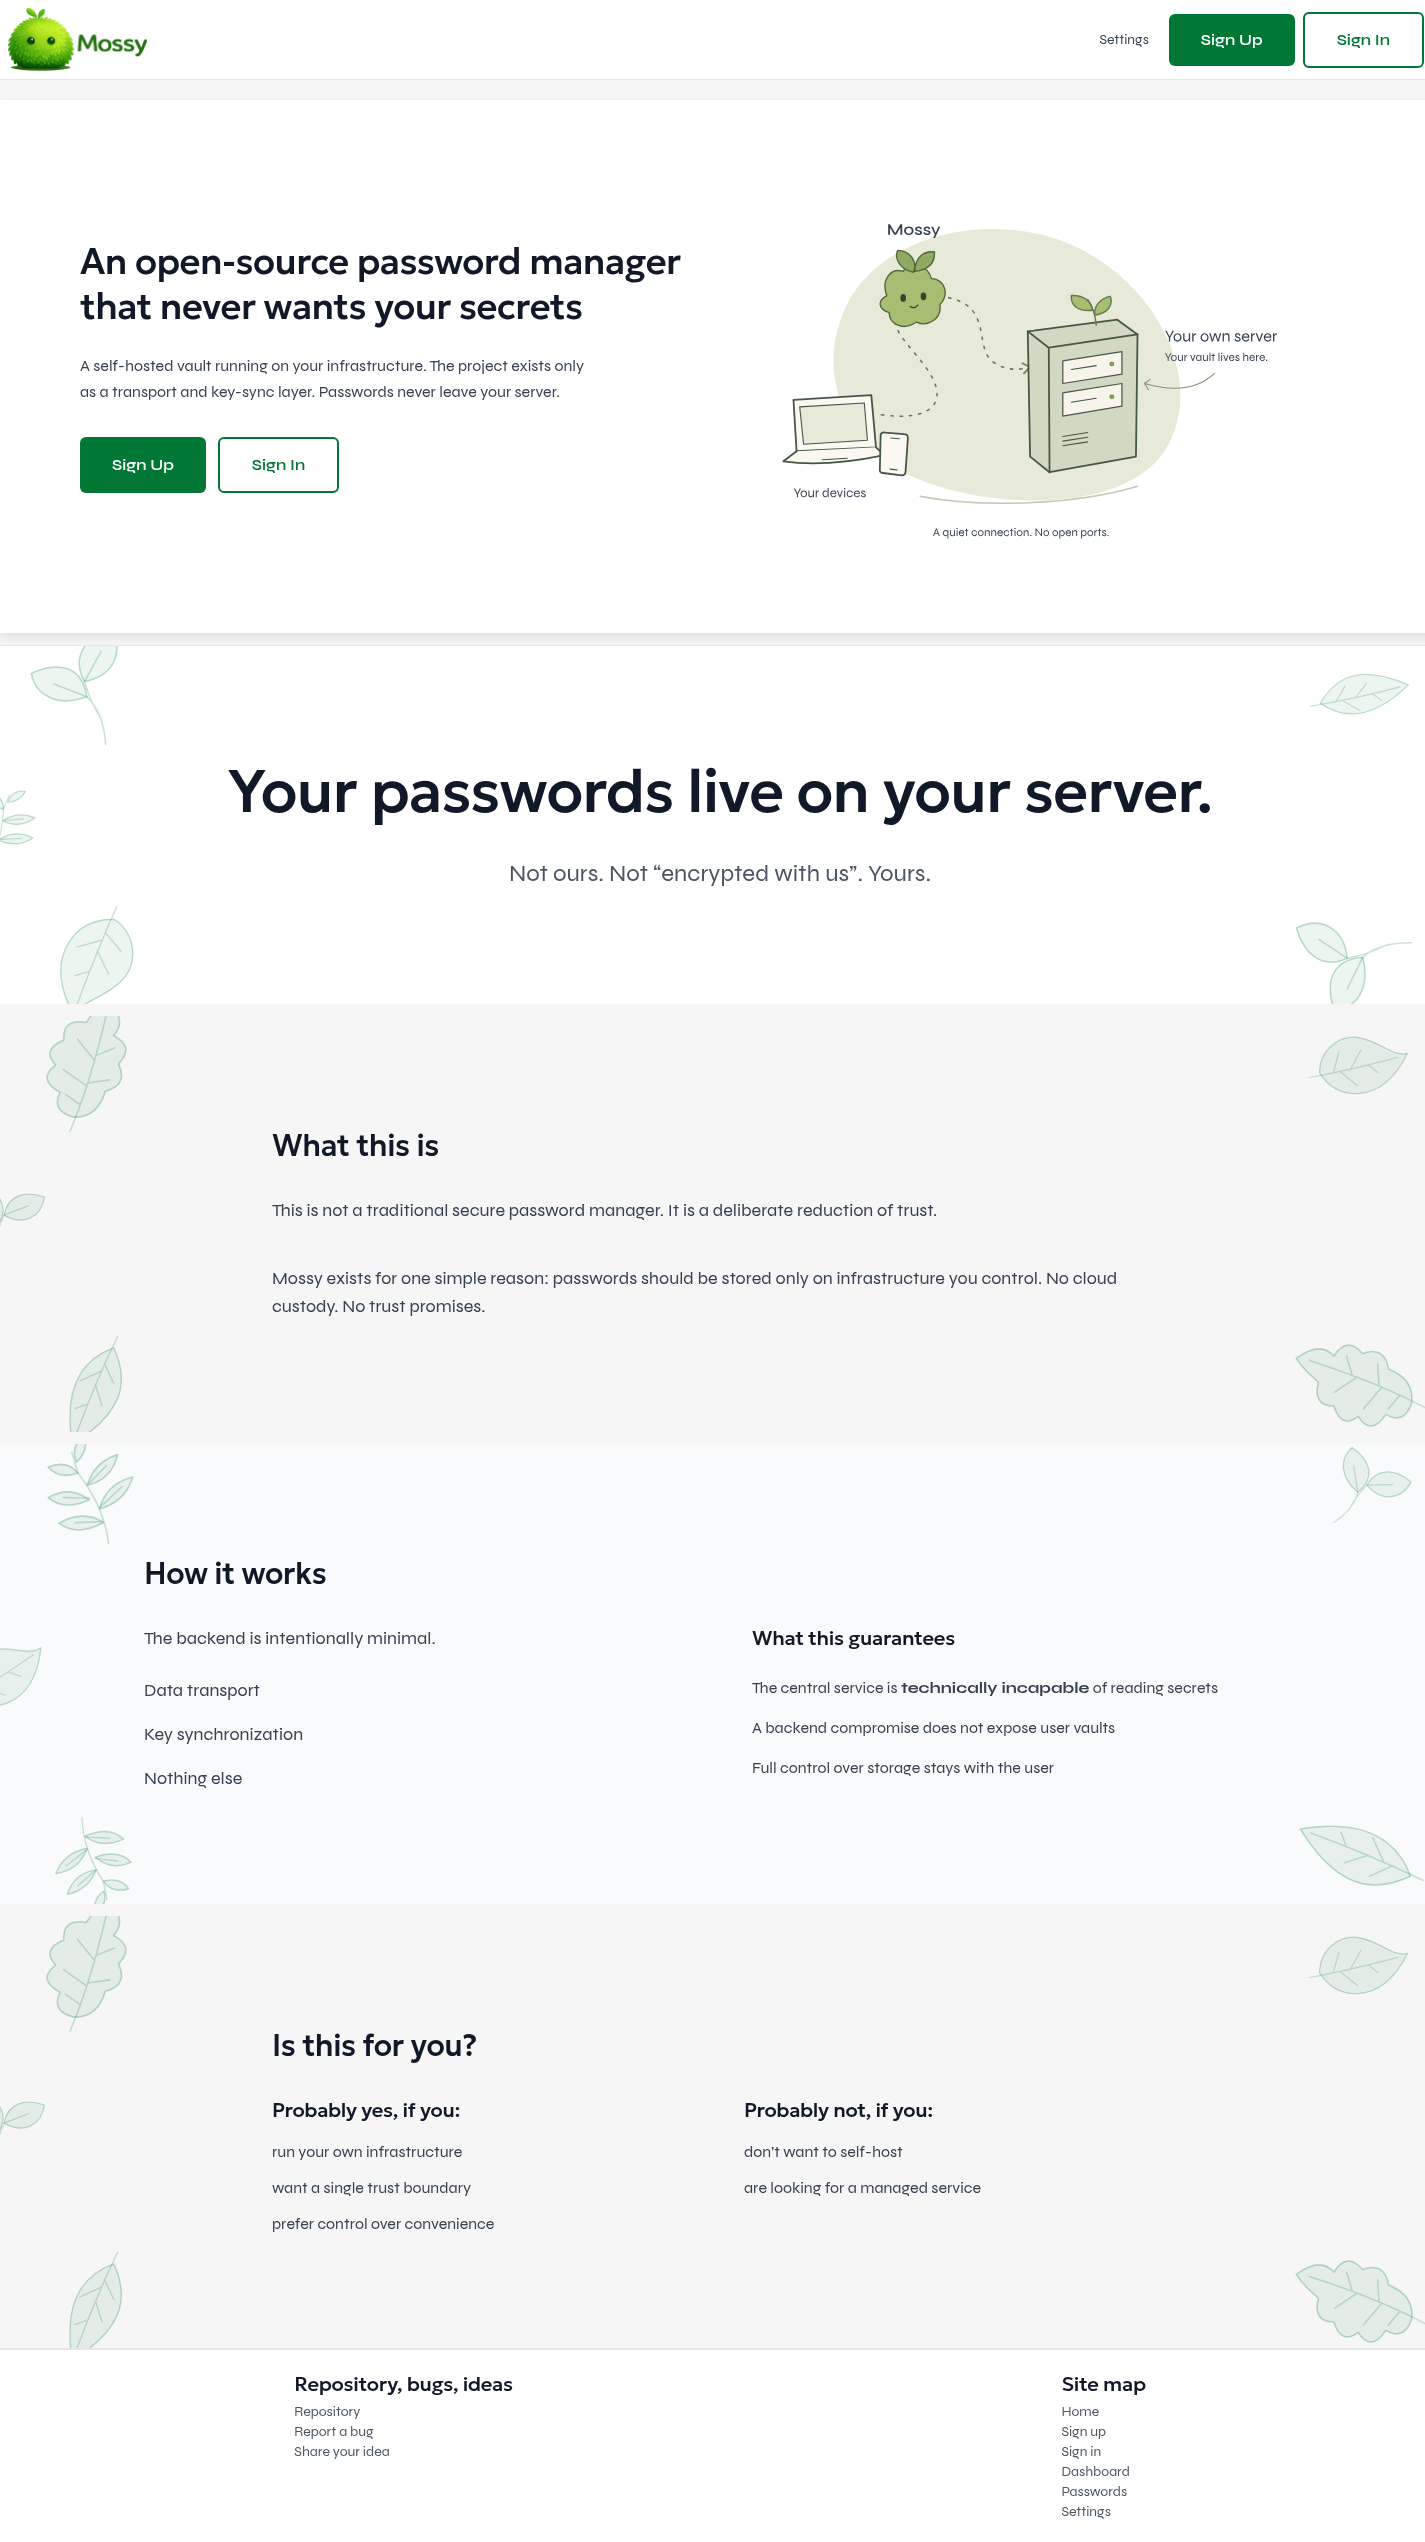
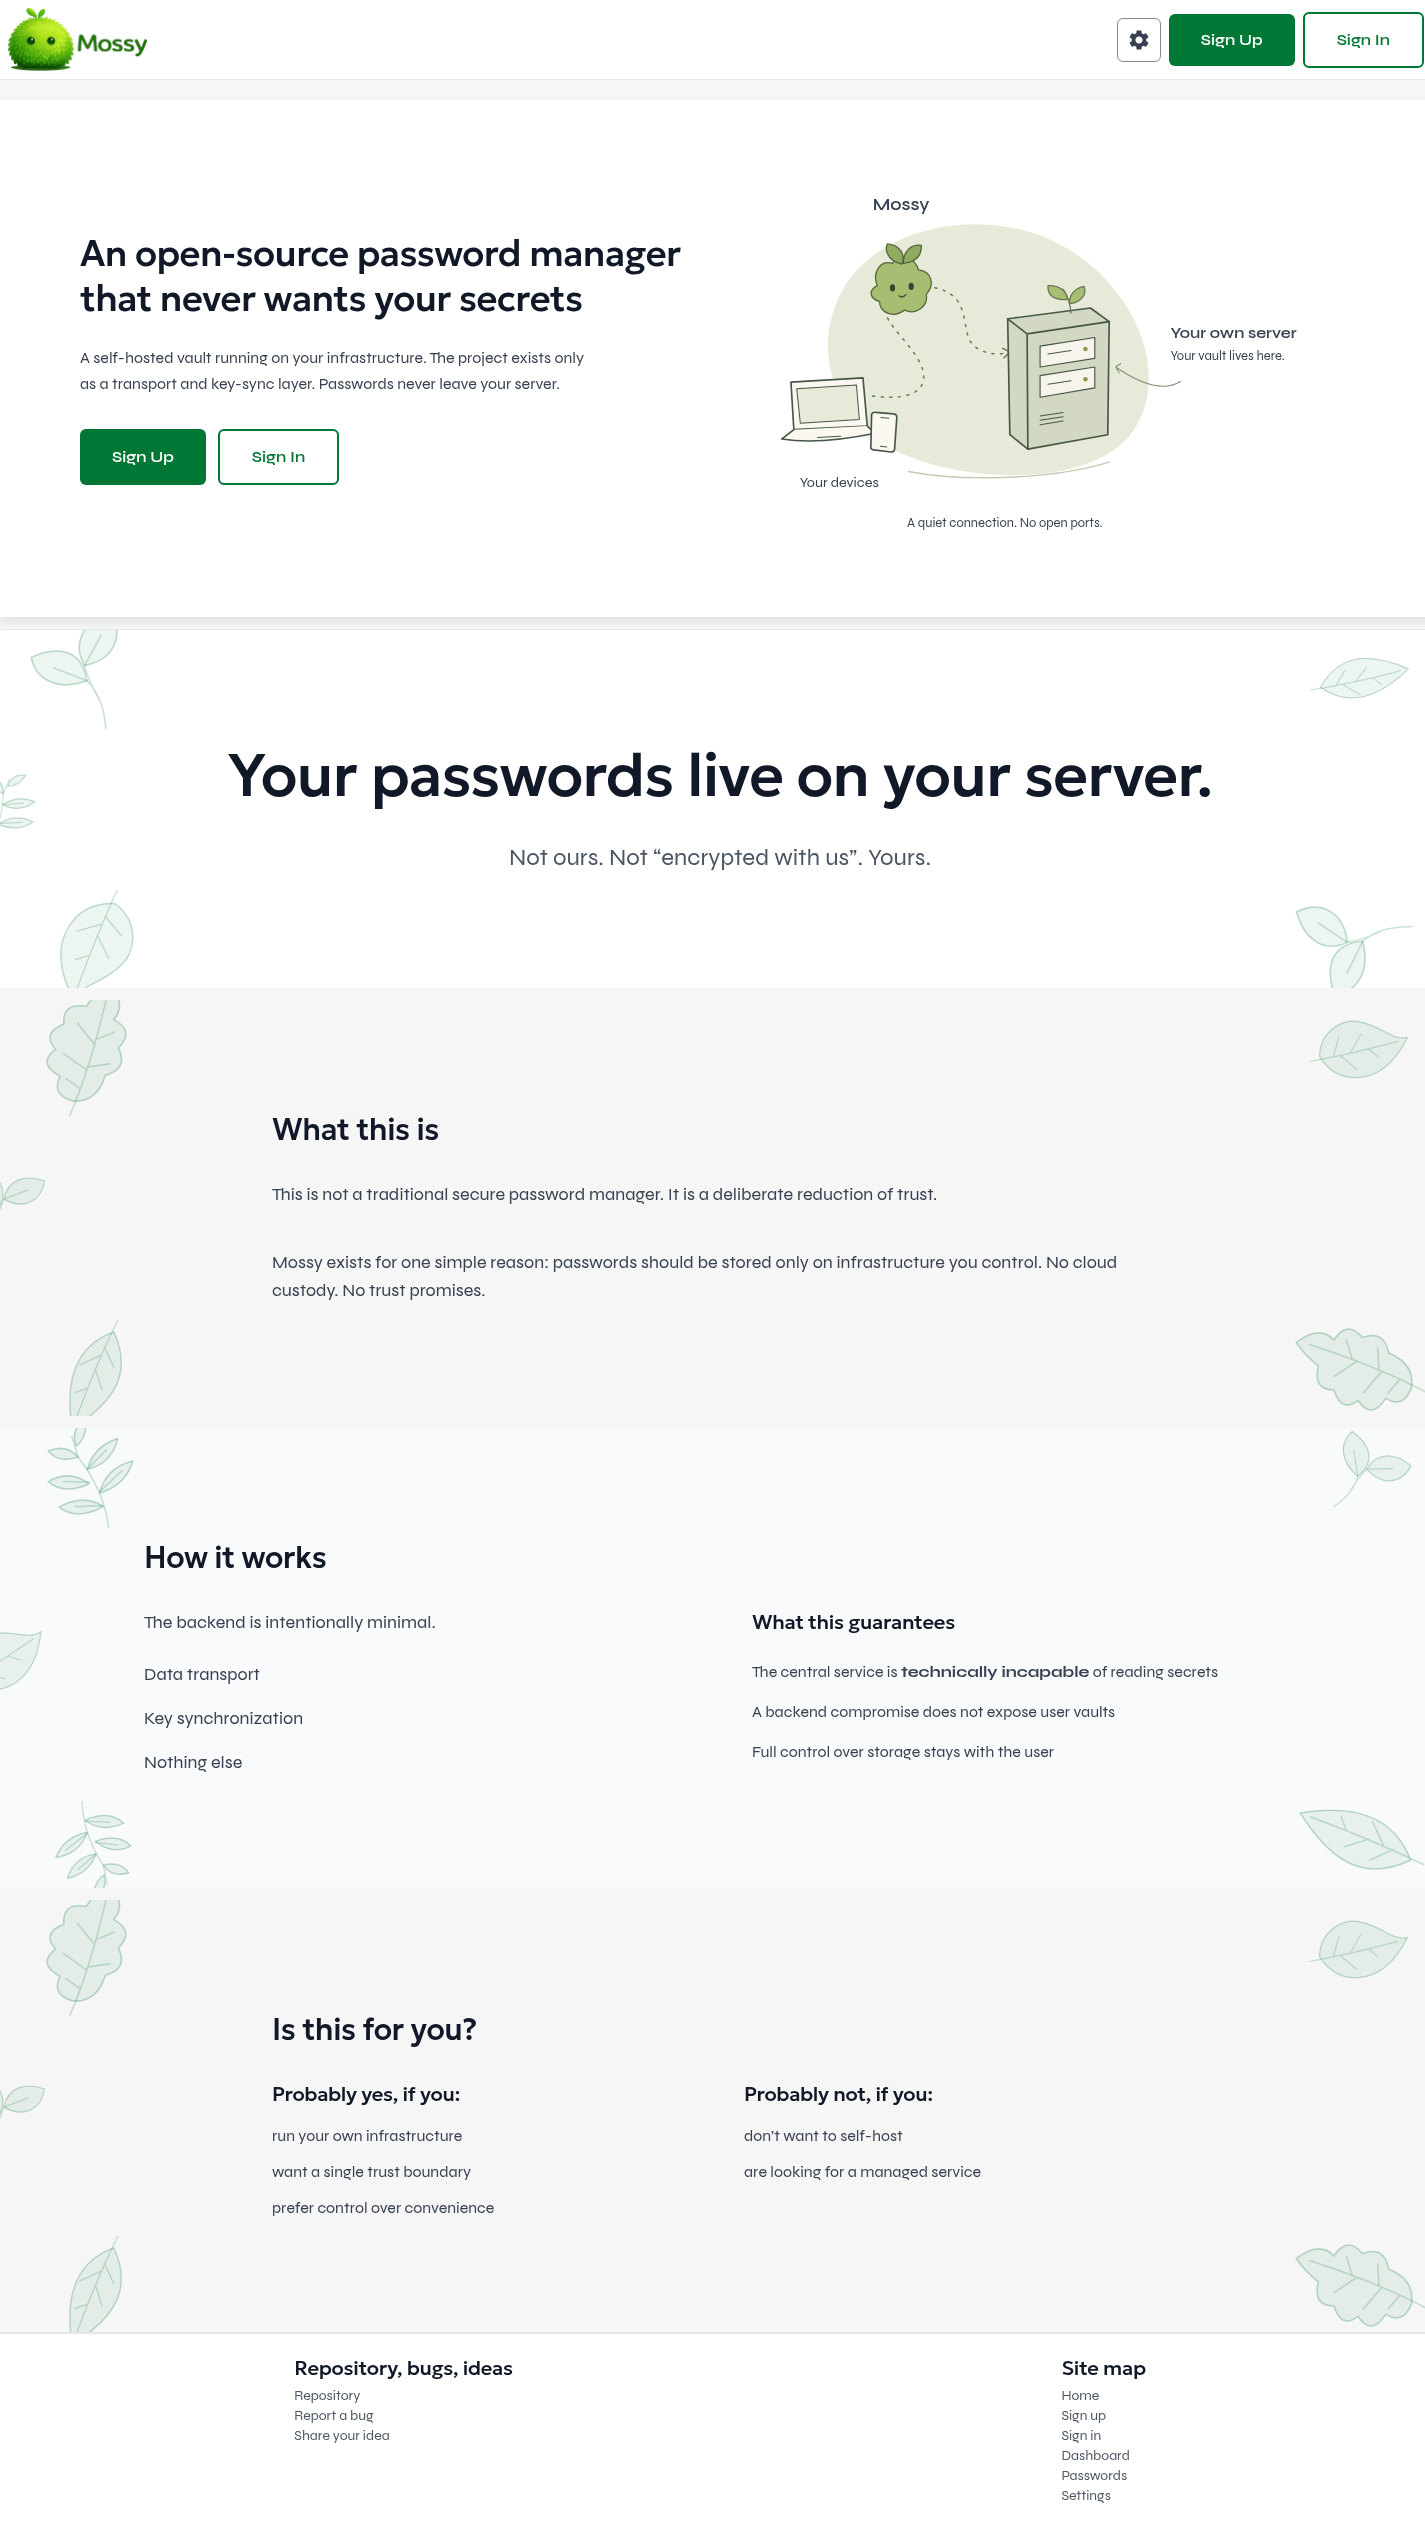
fix(frontend): improve illustration labels and guest Settings control

diff --git a/mossy-frontend/src/ui/layout/Nav.tsx b/mossy-frontend/src/ui/layout/Nav.tsx
@@ -1,11 +1,12 @@
 import NavTab from './NavTab.tsx';
 import Button from '../shared/Button.tsx';
-import { Link, useNavigate } from 'react-router-dom';
+import { Link, NavLink, useNavigate } from 'react-router-dom';
 import { useState } from 'react';
 import { AnimatePresence, motion, type Variants } from 'framer-motion';
 import { useAuth } from '../../hooks/useAuth.ts';
 import AccountMenu from './AccountMenu.tsx';
 import { useDeviceManagementStore } from '../../store/deviceManagementStore.ts';
+import { MdSettings } from 'react-icons/md';
 
 const menuVariants: Variants = {
     hidden: { opacity: 0, height: 0 },
@@ -98,12 +99,19 @@ function Nav() {
                 <div className={'hidden lg:flex justify-self-end mr-4'}>
                     {!isAuthenticated ? (
                         <div className="flex items-center gap-2">
-                            <Link
+                            <NavLink
                                 to="/settings"
-                                className="inline-flex min-h-11 items-center rounded-sm px-3 text-sm text-fg-secondary hover:text-fg-brand"
+                                aria-label="Settings"
+                                title="Settings"
+                                className={({ isActive }) =>
+                                    `inline-flex h-11 w-11 items-center justify-center rounded-md border border-border-strong hover:bg-surface-subtle ${isActive ? 'bg-brand/5 text-fg-brand' : 'text-fg-secondary'}`
+                                }
                             >
-                                Settings
-                            </Link>
+                                <MdSettings
+                                    className="h-6 w-6"
+                                    aria-hidden="true"
+                                />
+                            </NavLink>
                             <Button onClick={() => navigate('/register')}>
                                 Sign Up
                             </Button>

diff --git a/docs/screenshots/dark-theme/README.md b/docs/screenshots/dark-theme/README.md
@@ -1,20 +1,22 @@
 # Web appearance screenshots
 
-Captured from the local mock API's `default` scenario using the `demo` account.
+Captured from local previews. Signed-in screens use the mock API's `default`
+scenario and `demo` account; public pages use guest sessions.
 Desktop captures use a 1440 × 1000 viewport; mobile captures use 375 × 812.
 Full-page captures extend below the viewport where needed.
 
-| Page               | Light                                | Dark                                |
-| ------------------ | ------------------------------------ | ----------------------------------- |
-| Home               | [Screenshot](home-light.png)         | [Screenshot](home-dark.png)         |
-| Dashboard          | [Screenshot](dashboard-light.png)    | [Screenshot](dashboard-dark.png)    |
-| Passwords          | [Screenshot](passwords-light.png)    | [Screenshot](passwords-dark.png)    |
-| Vaults             | [Screenshot](vaults-light.png)       | [Screenshot](vaults-dark.png)       |
-| Devices            | [Screenshot](devices-light.png)      | [Screenshot](devices-dark.png)      |
-| Settings           | [Screenshot](settings-light.png)     | [Screenshot](settings-dark.png)     |
-| Sign in            | [Screenshot](login-light.png)        | [Screenshot](login-dark.png)        |
-| Sign up            | [Screenshot](register-light.png)     | [Screenshot](register-dark.png)     |
-| Email verification | [Screenshot](verify-email-light.png) | [Screenshot](verify-email-dark.png) |
+| Page                | Light                                | Dark                                |
+| ------------------- | ------------------------------------ | ----------------------------------- |
+| Home                | [Screenshot](home-light.png)         | [Screenshot](home-dark.png)         |
+| Illustration detail | [Screenshot](illustration-light.png) | [Screenshot](illustration-dark.png) |
+| Dashboard           | [Screenshot](dashboard-light.png)    | [Screenshot](dashboard-dark.png)    |
+| Passwords           | [Screenshot](passwords-light.png)    | [Screenshot](passwords-dark.png)    |
+| Vaults              | [Screenshot](vaults-light.png)       | [Screenshot](vaults-dark.png)       |
+| Devices             | [Screenshot](devices-light.png)      | [Screenshot](devices-dark.png)      |
+| Settings            | [Screenshot](settings-light.png)     | [Screenshot](settings-dark.png)     |
+| Sign in             | [Screenshot](login-light.png)        | [Screenshot](login-dark.png)        |
+| Sign up             | [Screenshot](register-light.png)     | [Screenshot](register-dark.png)     |
+| Email verification  | [Screenshot](verify-email-light.png) | [Screenshot](verify-email-dark.png) |
 
 Additional states:
 
